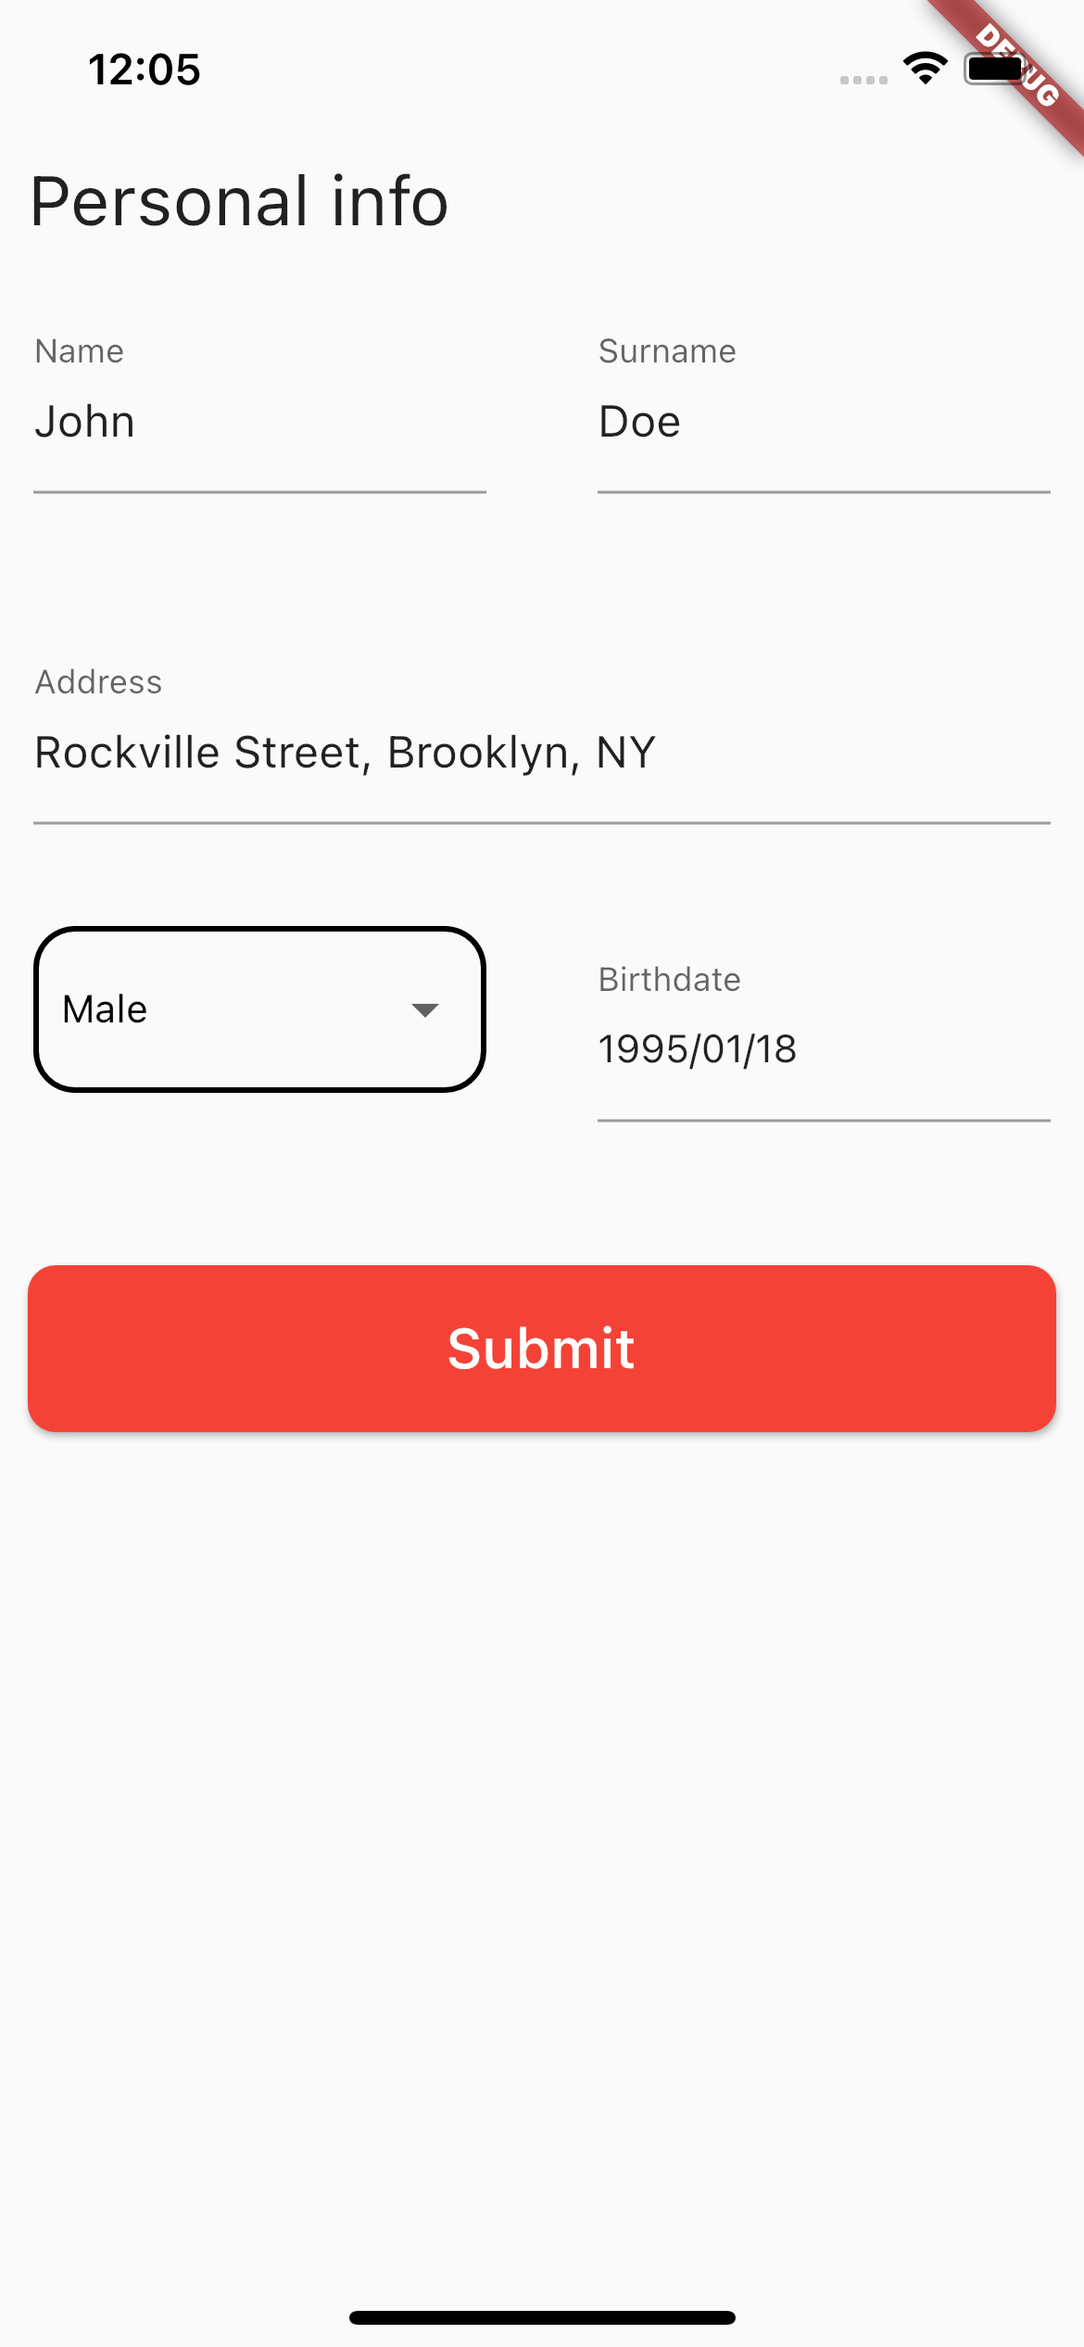
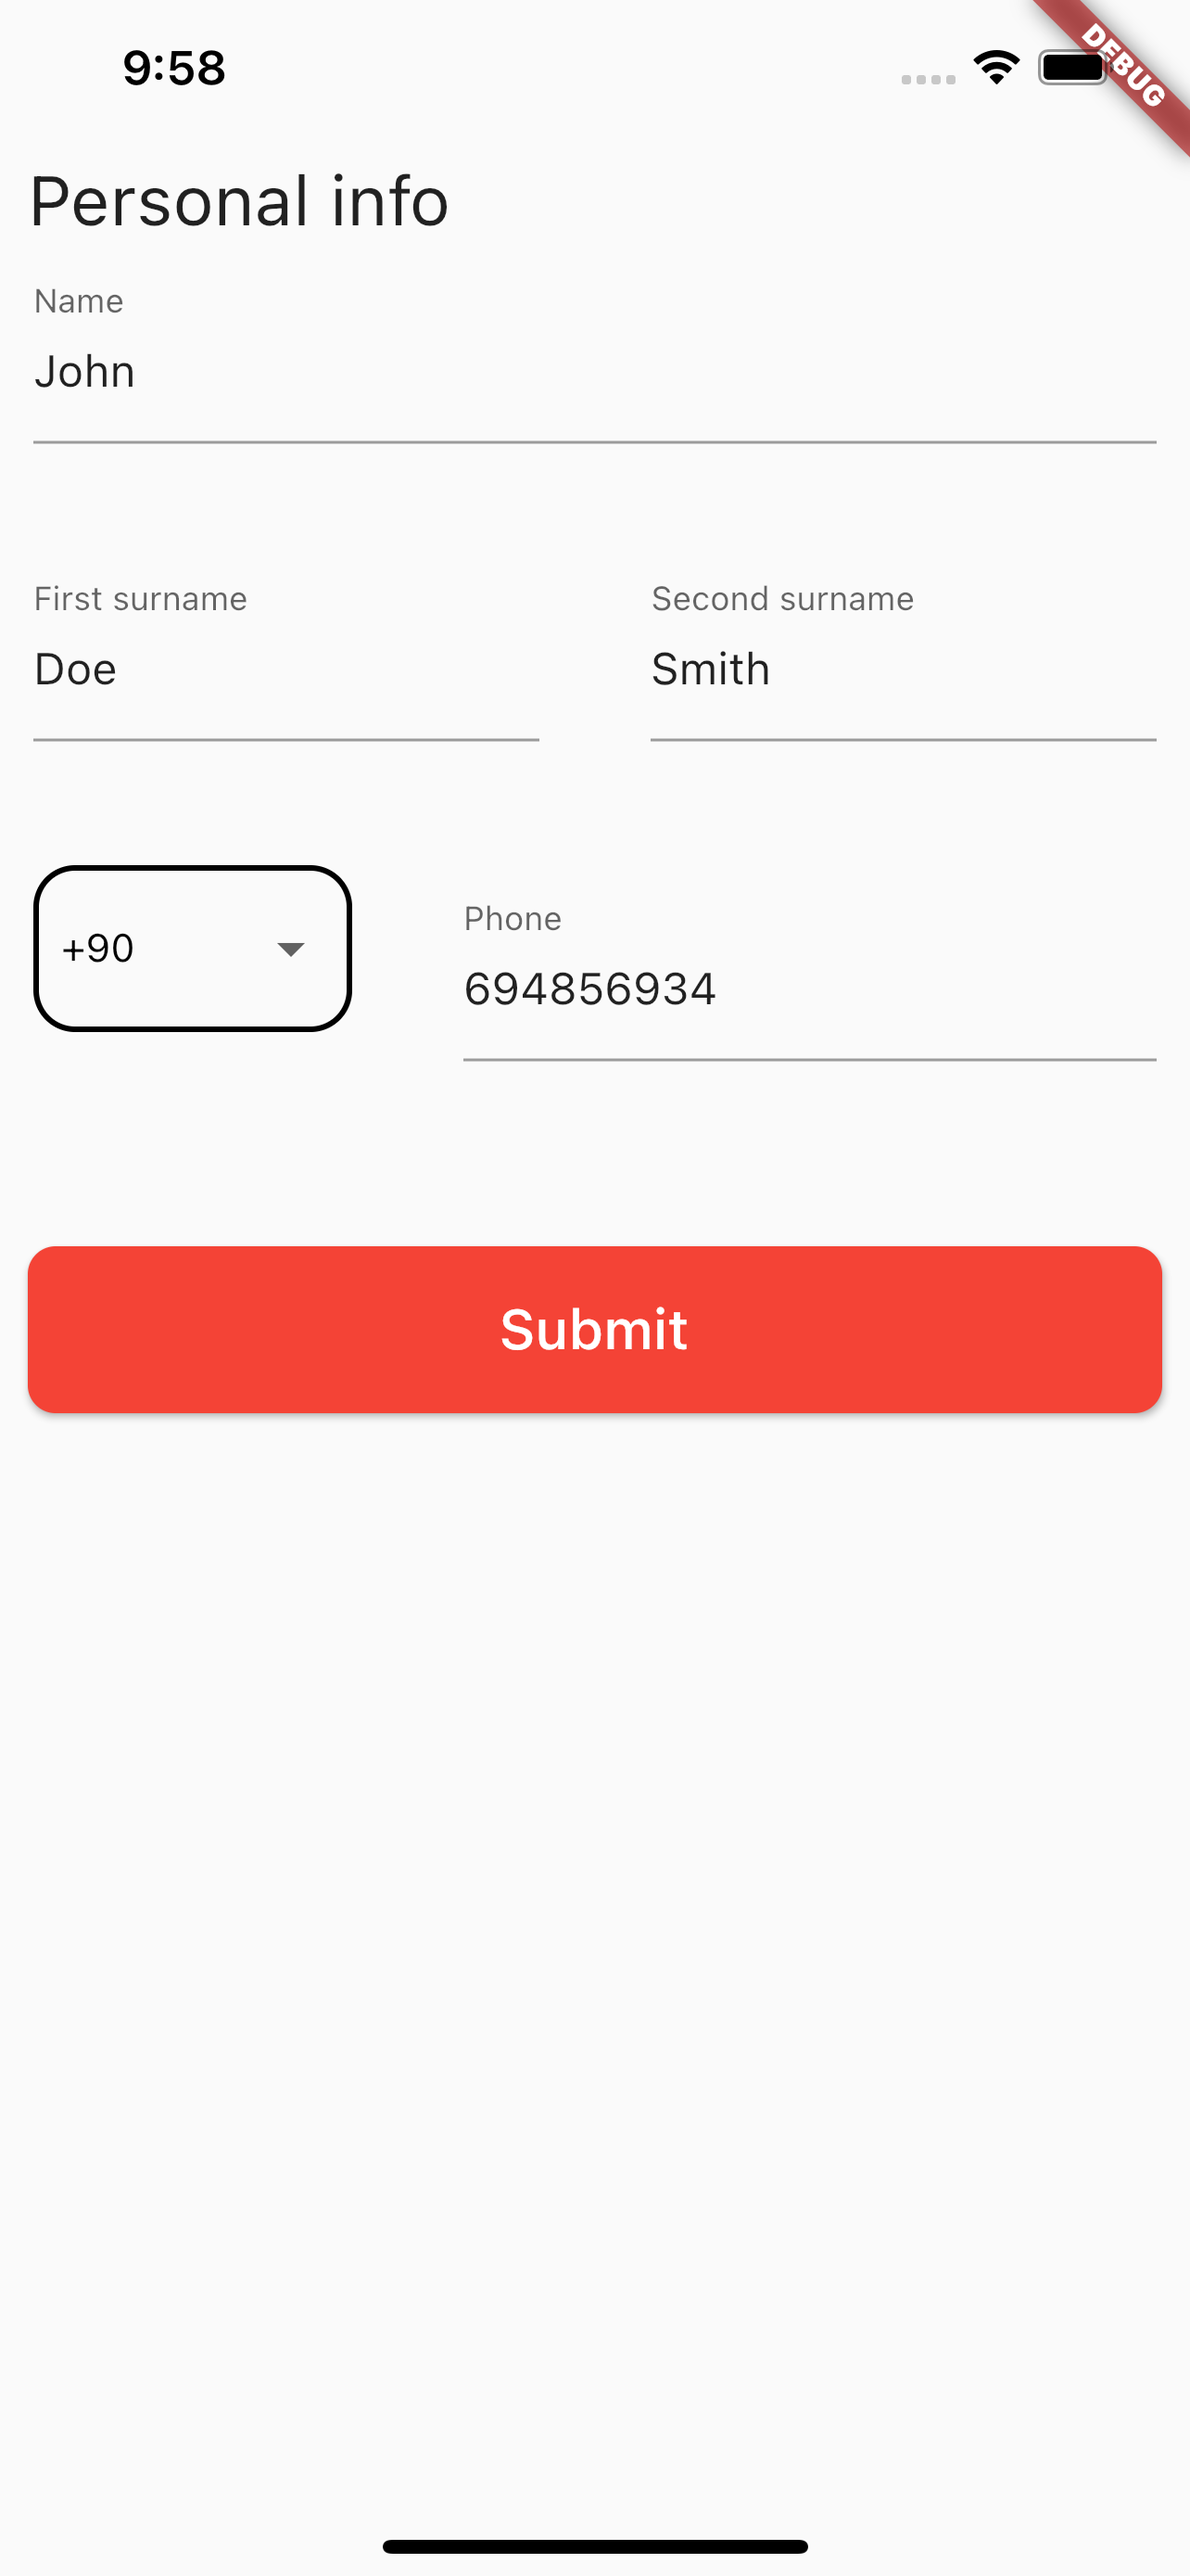
Updated 'provider' version to 5.0.0

diff --git a/lib/main.dart b/lib/main.dart
@@ -1,5 +1,4 @@
 import 'package:better_forms/form/form.dart';
-import 'package:better_forms/form/form_date_picker.dart';
 import 'package:better_forms/form/form_dropdown.dart';
 import 'package:better_forms/form/form_field.dart';
 import 'package:better_forms/form/form_group.dart';
@@ -25,7 +24,7 @@ class MyApp extends StatelessWidget {
 
 class MyForm extends StatelessWidget {
   void _onSubmit(Map<String, String> map) {
-    print(map);
+    print(map["name"]);
   }
 
   @override
@@ -54,7 +53,7 @@ class MyForm extends StatelessWidget {
                     title: "First surname",
                   ),
                   BFFormField(
-                    name: "surname",
+                    name: "second_surname",
                     title: "Second surname",
                   ),
                   BFDropdown(
@@ -64,9 +63,10 @@ class MyForm extends StatelessWidget {
                       BFDropdownItem<String>(value: "+90", displayValue: "+90")
                     ],
                     name: "prefix",
+                    hint: "Prefix",
                   ),
                   BFFormField(
-                    flex: 3,
+                    flex: 2,
                     name: "phone",
                     title: "Phone",
                   )

diff --git a/README.md b/README.md
@@ -5,6 +5,8 @@ This is a simple library to help building forms in Flutter.
 # Example
 This is an example of how to use this package to create a pretty simple form.
 
+_Note: for a complete working example, you can refer to the main.dart file in the repository_
+
 ````dart
 class MyForm extends StatelessWidget {
   void _onSubmit(Map<String, String> map) {
@@ -26,40 +28,33 @@ class MyForm extends StatelessWidget {
             ),
             onSubmit: _onSubmit,
             fields: [
+              BFFormField(
+                name: "name",
+                title: "Name",
+              ),
               BFFormGroup(
                 fields: [
-                  BFFormField(
-                    name: "name",
-                    title: "Name",
-                  ),
                   BFFormField(
                     name: "surname",
-                    title: "Surname",
+                    title: "First surname",
                   ),
-                ],
-              ),
-              BFFormField(
-                name: "address",
-                title: "Address",
-              ),
-              BFFormGroup(
-                fields: [
-                  BFDropdown<int>(
+                  BFFormField(
+                    name: "second_surname",
+                    title: "Second surname",
+                  ),
+                  BFDropdown(
+                    flex: 1,
                     items: [
-                      BFDropdownItem(displayValue: "Male", value: 1),
-                      BFDropdownItem(displayValue: "Female", value: 2),
+                      BFDropdownItem<String>(value: "+34", displayValue: "+34"),
+                      BFDropdownItem<String>(value: "+90", displayValue: "+90")
                     ],
-                    hint: "Gender",
-                    name: "gender",
+                    name: "prefix",
+                    hint: "Prefix",
                   ),
-                  BFDatePicker(
-                    dateFormat: "yyyy/MM/dd",
-                    initialDate: DateTime.now(),
-                    startingDate:
-                        DateTime.now().subtract(Duration(days: 360 * 30)),
-                    endDate: DateTime.now().add(Duration(days: 360 * 10)),
-                    name: "birthdate",
-                    placeholder: "Birthdate",
+                  BFFormField(
+                    flex: 2,
+                    name: "phone",
+                    title: "Phone",
                   )
                 ],
               ),

diff --git a/CHANGELOG.md b/CHANGELOG.md
@@ -1,3 +1,7 @@
+# better_forms 0.0.2-beta2
+- Upgraded 'provider' version to 5.0.0
+- Enhacement of the example provided
+
 # better_forms 0.0.2-beta1
 - Added the possibility to use aymmetric field groups
 
